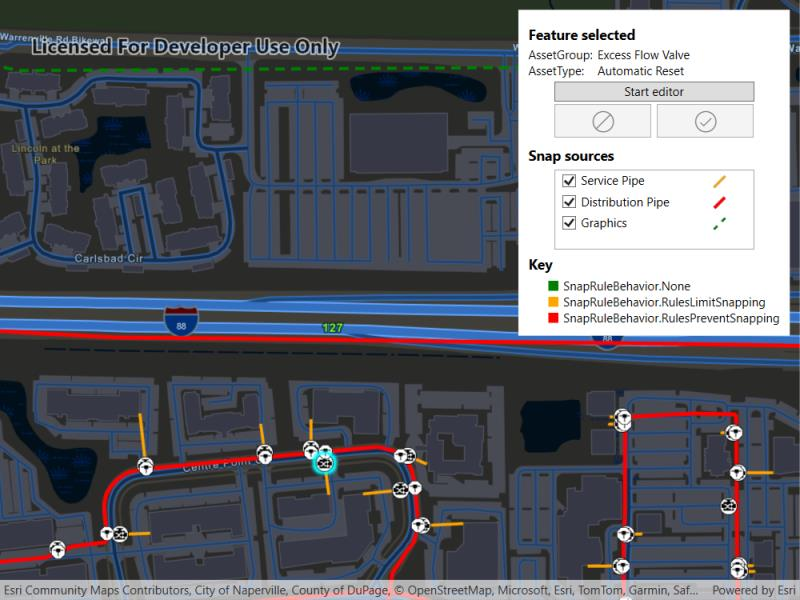
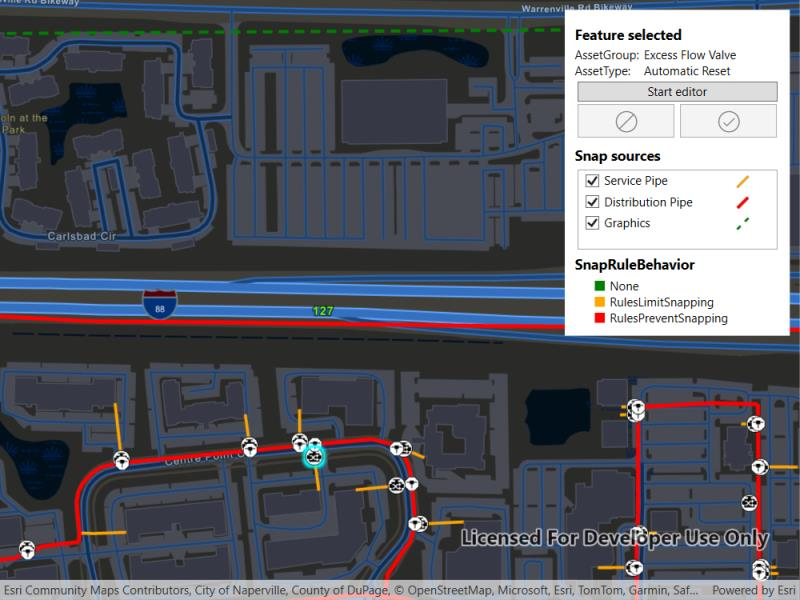
Updated key naming

diff --git a/src/WPF/WPF.Viewer/Samples/Geometry/SnapGeometryWithRules/SnapGeometryWithRules.xaml b/src/WPF/WPF.Viewer/Samples/Geometry/SnapGeometryWithRules/SnapGeometryWithRules.xaml
@@ -121,14 +121,14 @@
                         <TextBlock Padding="0,5"
                                    FontSize="14"
                                    FontWeight="Bold"
-                                   Text="Key" />
+                                   Text="SnapRuleBehavior" />
                         <StackPanel Margin="20,0,0,0" Orientation="Horizontal">
                             <Rectangle Grid.Column="0"
                                        Width="10"
                                        Height="10"
                                        Margin="0,0,5,0"
                                        Fill="Green" />
-                            <TextBlock Text="SnapRuleBehavior.None" />
+                            <TextBlock Text="None" />
                         </StackPanel>
                         <StackPanel Margin="20,0,0,0" Orientation="Horizontal">
                             <Rectangle Grid.Column="0"
@@ -136,7 +136,7 @@
                                        Height="10"
                                        Margin="0,0,5,0"
                                        Fill="Orange" />
-                            <TextBlock Text="SnapRuleBehavior.RulesLimitSnapping" />
+                            <TextBlock Text="RulesLimitSnapping" />
                         </StackPanel>
                         <StackPanel Margin="20,0,0,0" Orientation="Horizontal">
                             <Rectangle Grid.Column="0"
@@ -144,7 +144,7 @@
                                        Height="10"
                                        Margin="0,0,5,0"
                                        Fill="Red" />
-                            <TextBlock Text="SnapRuleBehavior.RulesPreventSnapping" />
+                            <TextBlock Text="RulesPreventSnapping" />
                         </StackPanel>
                     </StackPanel>
                 </StackPanel>
